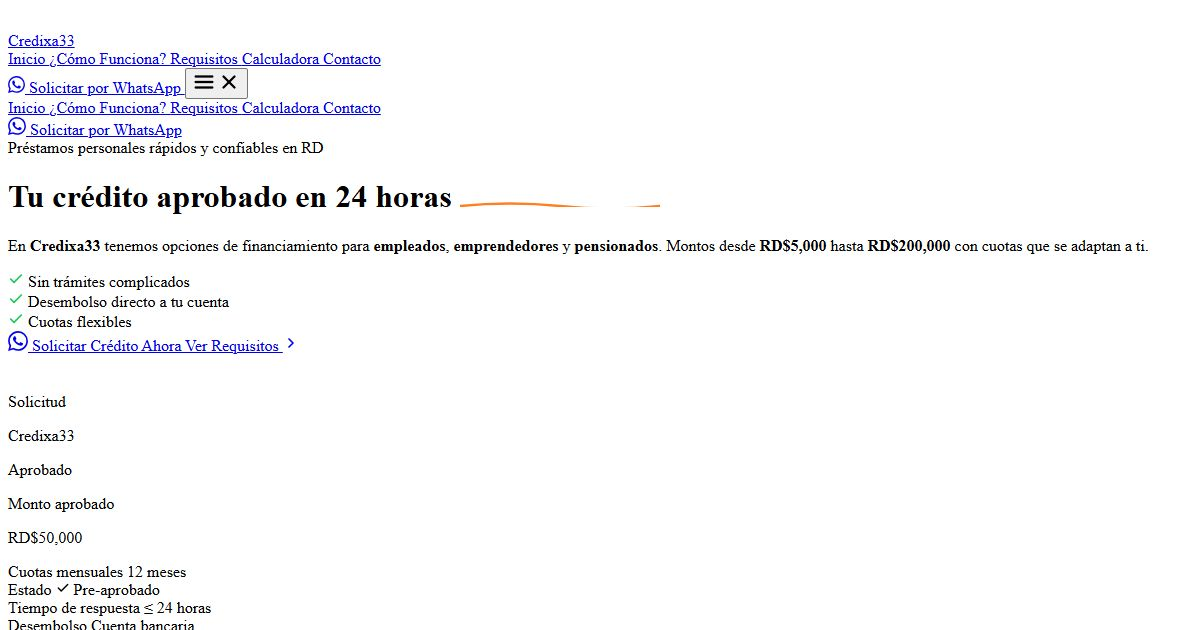
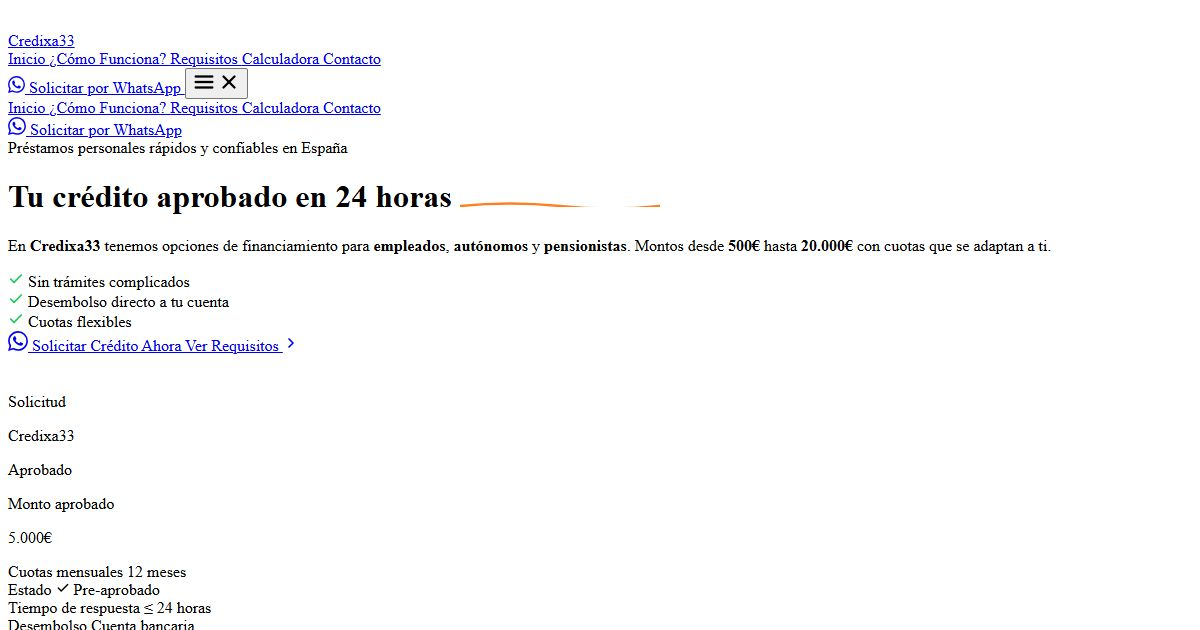
Adapt project for Spain: update currency (EUR/€), locale (es-ES), DNI/NIE, phone (+34), and locations

Changed region(s): [[0.37, 0.3619, 0.9558, 0.4222], [0.2467, 0.2111, 0.3083, 0.2413], [0.0, 0.8444, 0.0617, 0.8746]]

diff --git a/src/config/site.ts b/src/config/site.ts
@@ -5,22 +5,22 @@
 
 export const SITE = {
   name: "Credixa33",
-  tagline: "Préstamos personales rápidos y confiables en República Dominicana",
+  tagline: "Préstamos personales rápidos y confiables en España",
   description:
-    "Credixa33 ofrece préstamos personales rápidos y confiables en República Dominicana. Aprobación en 24 horas, montos flexibles, pago semanal, quincenal o mensual. Solicita hoy mismo.",
+    "Credixa33 ofrece préstamos personales rápidos y confiables en España. Aprobación en 24 horas, montos flexibles, pago semanal, quincenal o mensual. Solicita hoy mismo.",
   url: "https://credixa33.com",
-  locale: "es-DO",
+  locale: "es-ES",
 
   // ── Contacto ────────────────────────────────────────────────
   whatsapp: {
-    number: "18094339691",
-    display: "+1 (809) 433-9691",
+    number: "34600000000",
+    display: "+34 600 000 000",
     defaultMessage:
-      "Hola, estoy interesado en solicitar un prestamo personal con Credixa33. Pueden orientarme?",
+      "Hola, estoy interesado en solicitar un préstamo personal con Credixa33. ¿Pueden orientarme?",
   },
   email: "info@credixa33.com",
 
-  // ── Horarios de atención (RD) ───────────────────────────────
+  // ── Horarios de atención (España) ───────────────────────────
   hours: {
     weekdays: "Lunes a Viernes: 8:00 AM – 6:00 PM",
     saturday: "Sábados: 9:00 AM – 1:00 PM",
@@ -28,17 +28,17 @@ export const SITE = {
   },
 
   // ── Ubicación / Cobertura ───────────────────────────────────
-  coverage: "Santo Domingo, Santiago y todo el territorio nacional de RD",
+  coverage: "Madrid, Barcelona y todo el territorio nacional en España",
 
   // ── Préstamos ───────────────────────────────────────────────
   loan: {
-    min: 5_000,    // RD$
-    max: 200_000,  // RD$
-    currency: "RD$",
-    currencyCode: "DOP",
+    min: 500,     // €
+    max: 20_000,  // €
+    currency: "€",
+    currencyCode: "EUR",
 
     // Montos de ejemplo para el simulador
-    sampleAmounts: [5_000, 10_000, 15_000, 25_000, 50_000, 100_000],
+    sampleAmounts: [500, 1_000, 2_000, 5_000, 10_000, 20_000],
 
     // Plazos disponibles (semanas / quincenas / meses)
     paymentFrequencies: [
@@ -60,12 +60,12 @@ export const SITE = {
 
   // ── SEO / Open Graph ────────────────────────────────────────
   seo: {
-    title: "Credixa33 | Préstamos Personales Rápidos en República Dominicana",
+    title: "Credixa33 | Préstamos Personales Rápidos en España",
     description:
-      "Préstamos personales rápidos en RD. Aprobación en 24h, montos desde RD$5,000 hasta RD$200,000. Empleados, emprendedores y pensionados son bienvenidos. ¡Solicita ahora!",
+      "Préstamos personales rápidos en España. Aprobación en 24h, montos desde 500€ hasta 20.000€. Empleados, autónomos y pensionistas son bienvenidos. ¡Solicita ahora!",
     ogImage: "/og-image.jpg",
     keywords:
-      "préstamos personales dominicana, crédito rápido RD, préstamos en Santo Domingo, crédito personal República Dominicana, préstamos rápidos online RD",
+      "préstamos personales españa, crédito rápido españa, préstamos en madrid, crédito personal españa, préstamos rápidos online españa",
   },
 
   // ── Navegación ──────────────────────────────────────────────
@@ -81,17 +81,17 @@ export const SITE = {
   requirements: [
     {
       icon: "id-card",
-      text: "Cédula de Identidad Dominicana vigente",
+      text: "DNI o NIE español vigente",
       required: true,
     },
     {
       icon: "banknote",
-      text: "Ingresos demostrables (empleo, negocio o pensión)",
+      text: "Ingresos demostrables (nómina, autónomo o pensión)",
       required: true,
     },
     {
       icon: "university",
-      text: "Cuenta bancaria dominicana activa para depósito",
+      text: "Cuenta bancaria con IBAN español activa para depósito",
       required: true,
     },
     {
@@ -101,7 +101,7 @@ export const SITE = {
     },
     {
       icon: "user-check",
-      text: "Mayor de 18 años residente en República Dominicana",
+      text: "Mayor de 18 años residente en España",
       required: true,
     },
     {
@@ -115,23 +115,23 @@ export const SITE = {
   testimonials: [
     {
       name: "María González",
-      location: "Santo Domingo Norte",
+      location: "Madrid",
       rating: 5,
       text: "Solicité el préstamo un lunes en la mañana y el martes ya tenía el dinero en mi cuenta. Un servicio increíblemente rápido y sin complicaciones.",
       initials: "MG",
     },
     {
       name: "Carlos Ramírez",
-      location: "Santiago de los Caballeros",
+      location: "Barcelona",
       rating: 5,
-      text: "Como emprendedor, necesitaba capital de trabajo urgente. Credixa33 me aprobó el crédito en pocas horas. Las cuotas son cómodas y el proceso fue transparente.",
+      text: "Como autónomo, necesitaba capital de trabajo urgente. Credixa33 me aprobó el crédito en pocas horas. Las cuotas son cómodas y el proceso fue transparente.",
       initials: "CR",
     },
     {
       name: "Ana Peña",
-      location: "San Cristóbal",
+      location: "Valencia",
       rating: 5,
-      text: "Soy pensionada y pensé que sería difícil calificar, pero me trataron excelente. Me explicaron todo claramente y resolví mi emergencia a tiempo.",
+      text: "Soy pensionista y pensé que sería difícil calificar, pero me trataron excelente. Me explicaron todo claramente y resolví mi emergencia a tiempo.",
       initials: "AP",
     },
   ],

diff --git a/README.md b/README.md
@@ -1,6 +1,6 @@
 # Credixa33 — Landing Page
 
-Landing page de alto impacto para **Credixa33**, negocio de préstamos personales en República Dominicana. Construida con **Astro 5 + Tailwind CSS + TypeScript**.
+Landing page de alto impacto para **Credixa33**, negocio de préstamos personales en España. Construida con **Astro 5 + Tailwind CSS + TypeScript**.
 
 ## 🚀 Comandos
 
